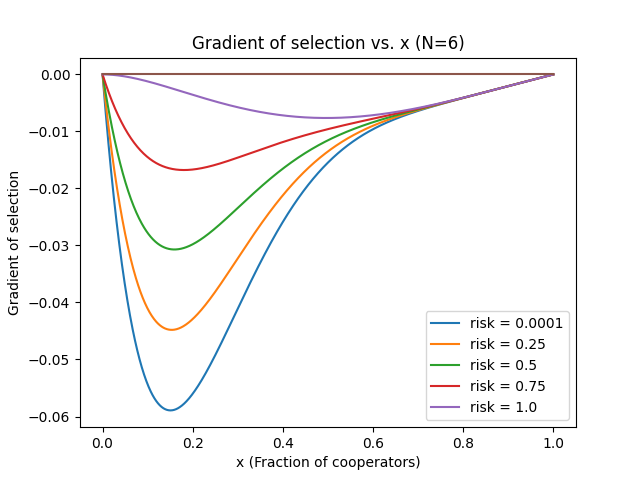
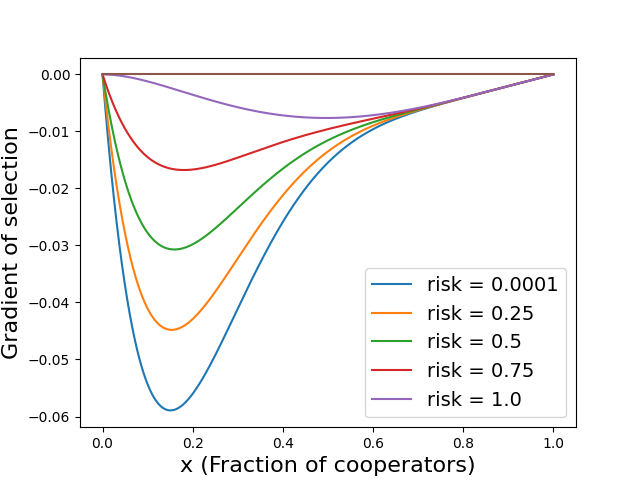
trying to save

diff --git a/main.py b/main.py
@@ -11,15 +11,6 @@ from sympy.solvers import solve
 import random
 import math
 
-# Coisas que podem ser úteis/interessantes falar na apresentação/workshop:
-# - O que é a tragédia dos comuns
-#       - O que é o risco de falha coletiva
-# - Exemplos reais da tragédia dos comuns
-# - Paper (parte dos métodos Evolutionary Dynamics in Finite Well-Mixed Populations)
-#   fala de random drift para low fitness values. Pode ser interessante explicar o que
-#   isso quer dizer e relacionar com o conceito análogo na biologia (aka driva genética)
-#   na fixação de um fenótipo/alelo
-# - Observações dos resultados empíricos
 
 #################
 ### Constants ###
@@ -220,7 +211,7 @@ def fitness_delta(x, risk, game, N, M, k, pop_type=INFINITE_WELL_MIXED, Z=50):
     Risk of collective failure provides an escape from the tragedy of the commons,
     Francisco C. Santos, Jorge M. Pacheco"""
     if pop_type == INFINITE_WELL_MIXED and game == "SH":
-        return fitness_delta_infinite_well_mixed(x, risk, N, M)
+        return fitness_delta_infinite_well_mixed(x, risk, N, M, game = game)
     else:
         return fitness(x, risk, game, N, M, k, pop_type, Z)[2]
 
@@ -281,14 +272,20 @@ def fitness_infinite_well_mixed(x, risk, N, M, k, game = "SH"):
     return fC, fD
 
 
-def gamma(x, N, M):
+def gamma(x, N, M, game = "SH"):
     """ Auxiliary function for the infinite well-mixed population fitness delta
         Note: we also use this expression for figures of finite well-mixed populations
     """
-    return math.comb(N - 1, M - 1) * (x**(M - 1)) * ((1 - x)**(N-M))
+    if game == "SH":
+        return math.comb(N - 1, M - 1) * (x**(M - 1)) * ((1 - x)**(N-M))
+    elif game == "SG":
+        return math.comb(N - 1, M - 1) * (x**(M - 1)) * ((1 - x)**(N-M))
+    elif game == "PD":
+        return math.comb(N - 1, M - 1) * (x**(M - 1)) * ((1 - x)**(N-M))
 
 
-def fitness_delta_infinite_well_mixed(x, risk, N, M):
+
+def fitness_delta_infinite_well_mixed(x, risk, N, M, game = "SH"):
     """Computes the fitness delta (fitness contributors - fitness defectors)
     for an infinite well-mixed population, based on the formula provided in the paper:
     
@@ -297,7 +294,7 @@ def fitness_delta_infinite_well_mixed(x, risk, N, M):
     
     Used for an infinite number of nodes.
     """
-    return b * (gamma(x, N, M)*risk - c)
+    return b * (gamma(x, N, M, game = game)*risk - c)
 
 
 #######################################
@@ -566,9 +563,9 @@ def cost_to_risk_ratio(risk):
     return c / risk
 
 
-def internal_roots(risk, N, M):
+def internal_roots(risk, N, M, game = "SH"):
     x = sp.symbols('x', real = True)
-    equation = cost_to_risk_ratio(risk) - gamma(x, N, M)
+    equation = cost_to_risk_ratio(risk) - gamma(x, N, M, game = game)
     try:
         solution = solve(equation) #, x0 = .5)
         return solution
@@ -616,14 +613,14 @@ def update(frame, model = "COMPLETE"):
     plt.subplot(121)
     pos = nx.spring_layout(G)
     nx.draw(G, pos, with_labels=False, node_size=k_s, node_color=colors, width=0.5)
-    plt.title(f"Network with {Z} nodes")
+    ##plt.title(f"Network with {Z} nodes")
 
     # Plot the degree distribution as a histogram
     plt.subplot(122)
     plt.hist(k_s, bins=20, edgecolor='k')
-    plt.title(f"Degree Distribution of a Network ({model})")
-    plt.xlabel("Degree")
-    plt.ylabel("Frequency")
+    ##plt.title(f"Degree Distribution of a Network ({model})")
+    plt.xlabel("Degree", fontsize=16)
+    plt.ylabel("Frequency", fontsize=16)
     #plt.show()
     #plt.close()
 
@@ -649,10 +646,10 @@ def evolution_gradient_of_selection_with_x(game, mode = "N=6"):
             plt.plot(x_vals, [gradient_of_selection(x, risk, game, N, M, int(Z*x), FINITE_WELL_MIXED, Z) for x in x_vals], label = f"risk = {risk}")
     plt.plot(x_vals, [0 for x in x_vals])
 
-    plt.legend()
-    plt.xlabel('x (Fraction of cooperators)')
-    plt.ylabel('Gradient of selection')
-    plt.title(f'Gradient of selection vs. x ({mode})')
+    plt.legend(fontsize=14)
+    plt.xlabel('x (Fraction of cooperators)', fontsize=16)
+    plt.ylabel('Gradient of selection', fontsize=16)
+    ##plt.title(f'Gradient of selection vs. x ({mode})')
 
     plt.savefig(f'Plots/{game}/gradient_of_selection_vs_x_{game}_{mode.replace("/", "-")}.png') 
     #plt.show()
@@ -670,31 +667,31 @@ def evolution_gamma_with_gradient_of_selection(game = "SH", mode = "N=6"):
     if mode == "N=6":
         N = 6
         for M in M_values:
-            plt.plot(x_vals, [gamma(x, N, M) for x in x_vals], label = f'M = {M}')
+            plt.plot(x_vals, [gamma(x, N, M, game = game) for x in x_vals], label = f'M = {M}')
     elif mode == "M=2":
         M = 2
         for N in N_values:
-            plt.plot(x_vals, [gamma(x, N, M) for x in x_vals], label = f'N = {N}')
+            plt.plot(x_vals, [gamma(x, N, M, game = game) for x in x_vals], label = f'N = {N}')
     elif mode == "N/M=2":
         risk = c/0.1 
         for N in N_values:
             M = int(N//2)
-            plt.plot(x_vals, [gamma(x, N, M) for x in x_vals], label = f'N = {N}')
+            plt.plot(x_vals, [gamma(x, N, M, game = game) for x in x_vals], label = f'N = {N}')
 
     for risk in r[1:]:
         plt.plot(x_vals, [cost_to_risk_ratio(risk) for x in x_vals], label=f'Risk = {risk}')   
 
-    plt.legend()
-    plt.xlabel('Gradient of selection')
-    plt.ylabel('Cost to risk ratio')
-    plt.title(f'Cost to risk ratio vs. gradient of selection ({mode})')
+    plt.legend(fontsize=14)
+    plt.xlabel('Gradient of selection', fontsize=16)
+    plt.ylabel('Cost to risk ratio', fontsize=16)
+    #plt.title(f'Cost to risk ratio vs. gradient of selection ({mode})')
 
     plt.savefig(f'Plots/{game}/gamma_vs_gradient_of_selection_{mode.replace("/", "-")}.png') 
     #plt.show()
     plt.close()
 
 
-def get_all_internal_roots(mode = "N=6"):
+def get_all_internal_roots(mode = "N=6", game = "SH"):
     ''' Given the mode, this retrieves all internal roots.
         Based on gamma vs gradient of selection.
     '''
@@ -705,7 +702,7 @@ def get_all_internal_roots(mode = "N=6"):
             for M in M_values:
                 key = (risk, M, N)
                 try:
-                    root = internal_roots(risk, N, M)
+                    root = internal_roots(risk, N, M, game = game)
                     internal_roots_dic[key] = root
                     #print(f"Roots for N = {N}, M = {M}, risk = {risk}: ", root,"\n")
                 except Exception as e: 
@@ -715,7 +712,7 @@ def get_all_internal_roots(mode = "N=6"):
             for N in N_values:
                 key = (risk, M, N)
                 try:
-                    root = internal_roots(risk, N, M)
+                    root = internal_roots(risk, N, M, game = game)
                     internal_roots_dic[key] = root
                     #print(f"Roots for N = {N}, M = {M}, risk = {risk}: ", root,"\n")
                 except Exception as e: 
@@ -723,15 +720,21 @@ def get_all_internal_roots(mode = "N=6"):
         elif mode == "M=N/2":
             risk = c/0.1 
             for N in N_values:
-                M = N//2
+                M = int(N//2)
                 key = (risk, M, N)
                 try:
-                    root = internal_roots(risk, N, int(M))
+                    root = internal_roots(risk, N, M, game = game)
                     internal_roots_dic[key] = root
                     #print(f"Roots for N = {N}, M = {M}, risk = {risk}: ", root,"\n")
                 except Exception as e: 
                     raise e
-    #print("internal roots: ", internal_roots_dic)
+    print("internal roots: ", internal_roots_dic)
+    # with open(f'internal_roots_{mode}_{game}.csv', 'w', newline='') as file:
+    #     csv_writer = csv.writer(file)
+    #     # Write the header row
+    #     csv_writer.writerow(['Risk', 'M', 'N', 'Root'])
+    #     # Write the data
+    #     csv_writer.writerows(internal_roots_data)
 
 
 def evolution_stationary_distribution_with_x(game = 'SH', mode = "N=6"):
@@ -759,10 +762,10 @@ def evolution_stationary_distribution_with_x(game = 'SH', mode = "N=6"):
             M = int(N//2)
             plt.plot(x_vals, [P for P in stationary_distribution(Z, N, M, risk, game, beta = 5)[::-1]], label = f"N = {N}")
     
-    plt.legend()
-    plt.xlabel('x (Fraction of cooperators)')
-    plt.ylabel('Satationary distribution')
-    plt.title(f'Stationary distribution vs. x ({mode})')
+    plt.legend(fontsize=14)
+    plt.xlabel('x (Fraction of cooperators)', fontsize=16)
+    plt.ylabel('Satationary distribution', fontsize=16)
+    #plt.title(f'Stationary distribution vs. x ({mode})')
 
     plt.savefig(f'Plots/{game}/stationary_distribution_vs_x_{game}_{mode.replace("/", "-")}_beta={b}.png') 
     #plt.show()
@@ -771,16 +774,17 @@ def evolution_stationary_distribution_with_x(game = 'SH', mode = "N=6"):
 
 #evolution_k_with_Z(model = "COMPLETE") #not in the paper, just for visualization
 
-for game in games_list:
-    evolution_gradient_of_selection_with_x(game = game, mode = "N=6") #1A, infinite population
-    evolution_stationary_distribution_with_x(game = game, mode = "N=6") #1C, finite pop.
-    evolution_stationary_distribution_with_x(game = game, mode = "M=2") #2A, finite pop.
-    evolution_stationary_distribution_with_x(game = game, mode = "N/M=2") #2B, finite pop.
+# for game in games_list:
+#     evolution_gradient_of_selection_with_x(game = game, mode = "N=6") #1A, infinite population
+#     evolution_stationary_distribution_with_x(game = game, mode = "N=6") #1C, finite pop.
+#     evolution_stationary_distribution_with_x(game = game, mode = "M=2") #2A, finite pop.
+#     evolution_stationary_distribution_with_x(game = game, mode = "N/M=2") #2B, finite pop.
 
-evolution_gamma_with_gradient_of_selection(mode = "N=6") #1B, infinite population
-evolution_gamma_with_gradient_of_selection(mode = "M=2") #2C, finite pop.
-evolution_gamma_with_gradient_of_selection(mode = "N/M=2") #2D, finite pop.
+# for game in games_list[1:-1]:
+#     evolution_gamma_with_gradient_of_selection(game = game, mode = "N=6") #1B, infinite population
+#     evolution_gamma_with_gradient_of_selection(game = game, mode = "M=2") #2C, finite pop.
+#     evolution_gamma_with_gradient_of_selection(game = game, mode = "N/M=2") #2D, finite pop.
 
-# get_all_internal_roots(mode = "N=6")
-# get_all_internal_roots(mode = "M=2") 
-# get_all_internal_roots(mode = "N/M=2")
+get_all_internal_roots(mode = "N=6", game = "SH")
+get_all_internal_roots(mode = "M=2", game = "SH") 
+get_all_internal_roots(mode = "N/M=2", game = "SH")
